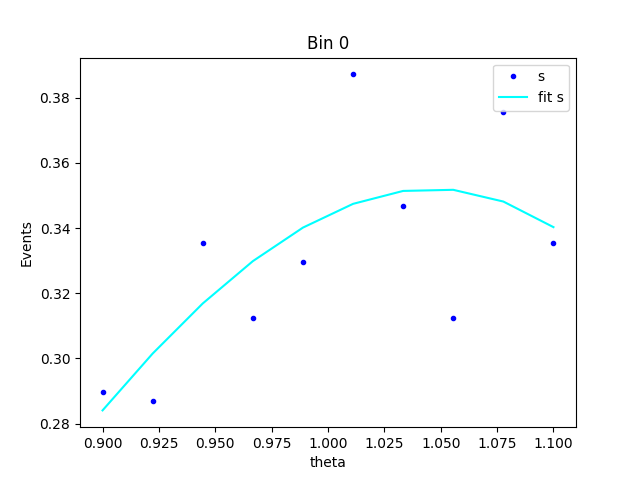
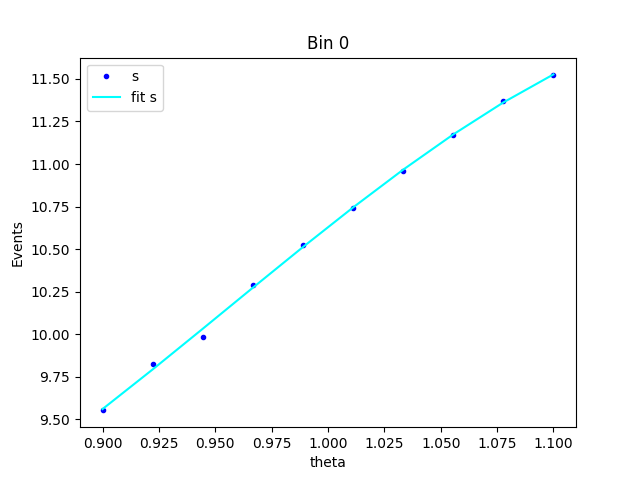
minor changes to model + new LHC vals for systemaics

diff --git a/ingestion_program/datasets.py b/ingestion_program/datasets.py
@@ -4,6 +4,7 @@ import pandas as pd
 import json
 import os
 import subprocess
+import wget
 
 
 test_set_settings = None
@@ -153,23 +154,23 @@ parent_path = os.path.dirname(current_path)
 
 
 def Neurips2024_public_dataset():
+    current_path = os.getcwd()
+    file_read_loc = os.path.join(current_path, "public_data")
+    if not os.path.isdir(file_read_loc):
+        os.mkdir(file_read_loc)
 
     file = "public_data.zip"
-    if file not in os.listdir(parent_path):
-        subprocess.run(
-            [
-                "wget",
-                "-O",
-                os.path.join(parent_path, "public_data.zip"),
-                "https://codalab.coresearch.club/my/datasets/download/0e2d7e8e-1b8b-4b3f-8b8b-3b3c5d4e4e3d",
-            ]
+    if file not in os.listdir(file_read_loc):
+        wget.download(
+            "https://www.codabench.org/datasets/download/df38ed11-c909-41a7-842e-a1f01c925851	/",
+            out=os.path.join(file_read_loc, "public_data.zip"),
         )
 
-    if "input_data" not in os.listdir(os.path.join(parent_path, "public_data")):
+    if "input_data" not in os.listdir(file_read_loc):
         subprocess.run(
-            ["unzip", os.path.join(parent_path, file), "-d", parent_path]
+            ["unzip", os.path.join(file_read_loc, file), "-d", file_read_loc]
         )
 
     return Data(
-        os.path.join(parent_path, "public_data", "input_data")
+        os.path.join(current_path, "public_data", "input_data"), data_format="parquet"
     )

diff --git a/ingestion_program/systematics.py b/ingestion_program/systematics.py
@@ -575,11 +575,11 @@ def systematics(
 
 
 LHC_NUMBERS = {
-    "ztautau": 7306660,
-    "wjets": 3812700,
-    "diboson": 2398564,
-    "ttbar": 616017,
-    "htautau": 285
+    "ztautau": 823327,
+    "wjets": 710190,
+    "diboson": 40590,
+    "ttbar": 158761,
+    "htautau": 3639,
 }
 
 def get_bootstraped_dataset(
@@ -590,7 +590,7 @@ def get_bootstraped_dataset(
     bkg_scale=1.0,
 ):
 
-    bkg_norm = LHC_NUMBERS
+    bkg_norm = LHC_NUMBERS.copy()
     if w_scale is not None:
         bkg_norm["wjets"] = int(LHC_NUMBERS["wjets"] * w_scale * bkg_scale)
 
@@ -600,6 +600,11 @@ def get_bootstraped_dataset(
         bkg_norm["ttbar"] = int(LHC_NUMBERS["ttbar"] * bkg_scale)
 
     bkg_norm["htautau"] = int(LHC_NUMBERS["htautau"] * mu)
+    
+    print(f"bkg_norm = {bkg_norm}")
+    print(f"LHC_NUMBERS = {LHC_NUMBERS}")
+    
+    
 
     pseudo_data = []
     for key in test_set.keys():
@@ -607,13 +612,14 @@ def get_bootstraped_dataset(
             n=bkg_norm[key], replace=True, random_state=seed
         ))
         print(f" for set {key} lenth = {len(temp)}" )
+        print(f" for set {key} lenth = {mu} -- {bkg_norm[key]}" )
         pseudo_data.append(temp)
               
 
     pseudo_data = pd.concat(pseudo_data)
 
     pseudo_data = pseudo_data.sample(frac=1, random_state=seed).reset_index(drop=True)
-
+    
     return pseudo_data
 
 

diff --git a/sample_code_submission/model.py b/sample_code_submission/model.py
@@ -79,9 +79,9 @@ class Model():
         # Intialize class variables
         self.theta_candidates = np.linspace(0.5, 1.0, 100)
         self.mu_scan = np.linspace(0, 3.92, 100)
-        self.threshold = 0.8
-        self.bins = 25
-        self.bin_nums = 25
+        self.threshold = 0.9
+        self.bins = 30
+        self.bin_nums = 30
         self.force_correction = 0
         self.plot_count = 1
         self.variable = "DER_deltar_lep_had"

diff --git a/ingestion_program/run_ingestion.py b/ingestion_program/run_ingestion.py
@@ -56,7 +56,7 @@ parser.add_argument(
     type=dict,
     help="Systematics to be used",
     default={  # Systematics to use
-        "tes": True,
+        "tes": False,
         "jes": False,
         "soft_met": False,
         "w_scale": False,
